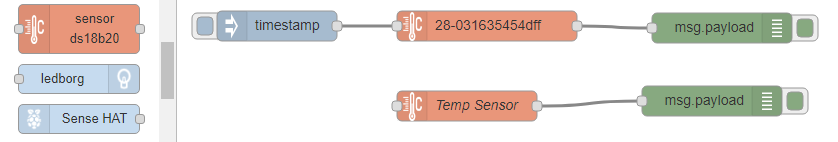
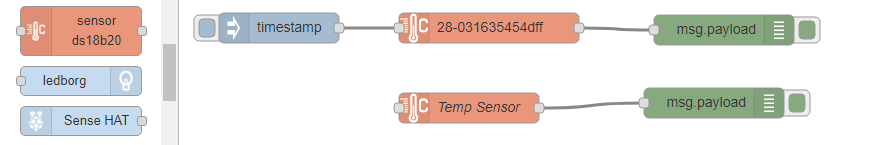
images

Changed region(s): [[0.0, 0.0282, 0.9928, 0.7042], [0.4344, 0.5915, 0.9618, 0.8732], [0.0, 0.7324, 0.1862, 0.9577]]

diff --git a/sensor.html b/sensor.html
@@ -10,7 +10,7 @@
         },
         inputs: 1,
         outputs: 1,
-        icon: "thermometer.jpg",
+        icon: "thermometer.png",
         label: function() {
             return this.name || this.sensorid || "sensor-ds18b20";
         },
